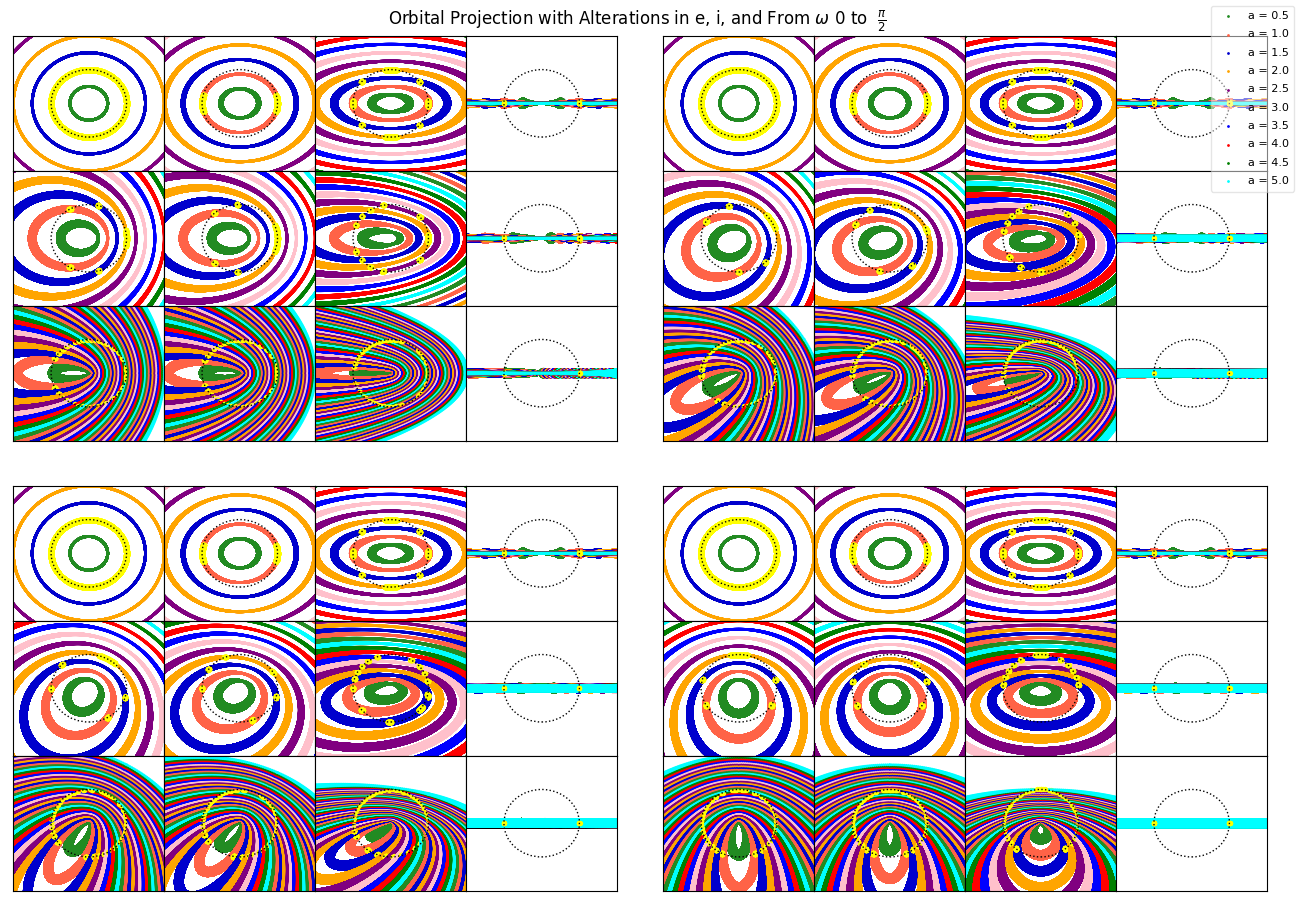
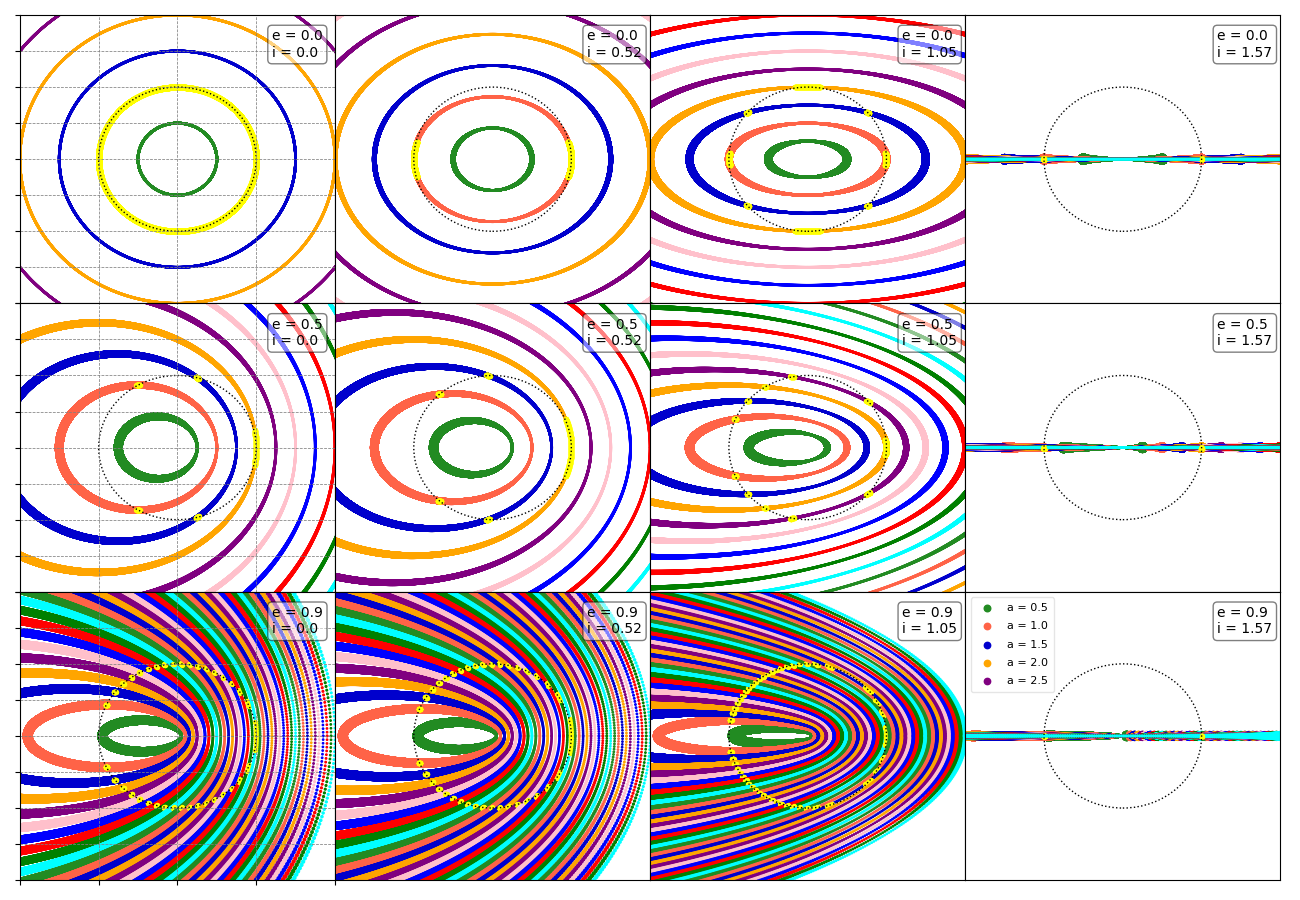
Fixed UnityPlotHist's normalizations, Able to get legends to work for MultiHist and MultiProj, made figures for omega = 0

diff --git a/Sep_plot.py b/Sep_plot.py
@@ -259,24 +259,6 @@ class Sep_plot(Sep_gen):
                 
             # Creates the grid for each plot
             ax.grid(True,color = "grey", linestyle="--", linewidth="0.55", axis = "both", which = "both")
-
-            textstr = "\n".join((f'e = {param[0]}', f'i = {round(param[1],2)}'))
-            ax.text(0.80, 0.95, textstr, transform = ax.transAxes, fontsize = 10, verticalalignment = "top", bbox = rect)
-                
-            if j < 8 or j >= 9:
-                ax.set_yticks([])
-                ax.set_xticks([])
-                ax.tick_params(axis = "x", labelbottom = True)
-            elif j == 11:
-                # handles = [patches.Rectangle((0,0),1,1,color = c, ec = "w") for c in colorlist]
-                # if which == "Linear":
-                #     labels = ["Linear"]
-                # else:
-                #     labels = ["Linear", "Log", r"Power Law: $\alpha = 2$"]
-                
-                final_ax = axs.flatten()[-1]
-                handles, labels = final_ax.get_legend_handles_labels()
-                final_ax.legend(handles[0:5],labels[0:5],fontsize="small", transform = ax.get_xaxis_transform(), prop = {"size":8}, borderpad = 0.5, labelspacing = 0.75, handlelength = 2, framealpha = 0.5)
                 
             # Plots an Einstein Ring Radius of 1 around each plot
             Circ2 = patches.Circle((0,0), 1, ec="k", fill=False, linestyle = ":", linewidth = 1)
@@ -291,36 +273,27 @@ class Sep_plot(Sep_gen):
             # Limits
             ax.set_xlim(-2,2)
             ax.set_ylim(-2,2)
-            
-            
-            # if outer == 2:
-                # ax.text(-18,7.95,"e=0")
-                # ax.text(-18,3.95,"e=0.5")
-                # ax.text(-18,-0.1,"e=0.9")
-                # ax.text(-18,10.25,"i=0")
-                # ax.text(-8.25,10.25,r"i=$\frac{\pi}{6}$")
-                # ax.text(-4.25,10.25,r"i=$\frac{\pi}{3}$")
-                # ax.text(0,10.25,r"i=$\frac{\pi}{2}$")
-            # else:
-            ax.set_xticks([])
-            ax.set_yticks([])
                 
+            textstr = "\n".join((f'e = {param[0]}', f'i = {round(param[1],2)}'))
+            ax.text(0.80, 0.95, textstr, transform = ax.transAxes, fontsize = 10, verticalalignment = "top", bbox = rect)
+                
+            if j % 4 == 0:
+                ax.tick_params(axis = "both", labelbottom = False, labelleft = False)
+            elif j < 8 or j >= 9:
+                # ax.set_yticks([])
+                # ax.set_xticks([])
+                ax.tick_params(axis = "both", labelbottom = False, labelleft = False)
+            if j == 11:
+                handles, labels = ax.get_legend_handles_labels()
+                ax.legend(handles[0:9],labels[0:9], loc = "upper left", fontsize = "x-small",prop = {"size":8}, borderpad = 0.5, labelspacing = 0.75, handlelength = 2, framealpha = 0.5)
         
         # Shows the legend of each data point
         # fig.legend(handles[0:5],labels[0:5],fontsize="small", prop = {"size":8}, borderpad = 0.5, labelspacing = 0.75, handlelength = 2, framealpha = 0.5)
         # fig.tight_layout(pad=0.05, rect = (0.02, 0.02, 0.95, 0.95))
         fig.tight_layout()
-        # Shows where the data values change according to the plot 
-        # subfig.text(-15.75,7.95,"e=0")
-        # subfig.text(-15.75,3.95,"e=0.5")
-        # subfig.text(-15.75,-0.1,"e=0.9")
-        # subfig.text(-12.25,10.25,"i=0")
-        # subfig.text(-8.25,10.25,"i=30")
-        # subfig.text(-4.25,10.25,"i=60")
-        # subfig.text(0,10.25,"i=90")
         
         # Saves to Figure Folder
-        plt.savefig(f"/College Projects/Microlensing Separation/Figures/Multi_a05_{end}_omegas.png")
+        plt.savefig(f"/College Projects/Microlensing Separation/Figures/Multi_a05_{end}_omega_0.png")
         # plt.savefig(f"C:/Users/victo/College Projects/Microlensing Separation/Figures/Multi_a05_{end}_omega_0.png")
         # plt.show()
         
@@ -335,9 +308,9 @@ class Sep_plot(Sep_gen):
         # totlinsemilist = [[] for _ in range(12)]
         
         if which == "Linear":
-            colorlist = ["black"]
+            colorlist = ["black", "green"]
         else:
-            colorlist = ["black", "red", "blue"]
+            colorlist = ["black", "red", "blue", "green"]
         
         # Data
         rlist, param = self.DataHist(w = w, step = step, end = end, which = which) 
@@ -431,32 +404,28 @@ class Sep_plot(Sep_gen):
             # ax.text(3e0, 7.5, f"$i = {round(iterparam[1],2)}$")
             ax.grid(True,color = "grey", linestyle="--", linewidth="0.25", axis = "x", which = "both")
             ax.vlines(1/(1-iterparam[0]), 0, 1, transform = ax.get_xaxis_transform(), colors = 'green', alpha = 0.75, label = "Peak Eccentricity")
-            if j < 8 or j >= 9:
+            if j % 4 == 0:
+                ax.tick_params(axis = "both", labelbottom = False, labelleft = False)
+            elif j < 8 or j >= 9:
                 ax.set_yticks([])
                 ax.set_xticks([])
                 ax.tick_params(axis = "x", labelbottom = False)
-            elif j == 11:
-                # handles = [patches.Rectangle((0,0),1,1,color = c, ec = "w") for c in colorlist]
-                # if which == "Linear":
-                #     labels = ["Linear"]
-                # else:
-                #     labels = ["Linear", "Log", r"Power Law: $\alpha = 2$"]
-                
-                
-                final_ax = axs.flatten()[-1]
-                handles, labels = final_ax.get_legend_handles_labels()
-                final_ax.legend(handles, labels, transform = ax.get_xaxis_tranform(), loc = "best")
             
-        # handles = [patches.Rectangle((0,0),1,1,color = c, ec = "w") for c in colorlist]
-        # if which == "Linear":
-        #     labels = ["Linear"]
-        # else:
-        #     labels = ["Linear", "Log", r"Power Law: $\alpha = 2$"]
+            if j == 11:
+                handles = [patches.Rectangle((0,0),1,1,color = c, ec = "w") for c in colorlist]
+                if which == "Linear":
+                    labels = ["Linear", "Peak Eccentricity"]
+                else:
+                    labels = ["Linear", "Log", r"Power Law: $\alpha = 2$", "Peak Eccentricity"]
+                    
+                ax.legend(handles = handles, labels = labels, loc = "best", fontsize = "small")
+                
         # fig.tight_layout(pad=1.25,h_pad=0, w_pad=0, rect = (0.08, 0.0, 0.95, 0.95))
+        fig.tight_layout()
         if which == "Linear":
-            plt.savefig(f'/College Projects/Microlensing Separation/Figures/MultiHist_0_0002_{which}.png')
+            plt.savefig(f'/College Projects/Microlensing Separation/Figures/MultiHist_omega_0_0002_{which}.png')
         else:
-            plt.savefig(f'/College Projects/Microlensing Separation/Figures/MultiHist_0_0002_{which}.png')
+            plt.savefig(f'/College Projects/Microlensing Separation/Figures/MultiHist_omega_0_0002_{which}.png')
         # plt.show()
         return rlist
 
@@ -748,7 +717,7 @@ class Sep_plot(Sep_gen):
         
         # FIGURE FOR SEMIMAJOR AXIS
         fig, ax = plt.subplots(figsize = (9,9), sharex=True,sharey=True,gridspec_kw=dict(hspace=0,wspace=0))
-        fig.suptitle("Detections of $R_E$ with marginalizations for e = 0.0-0.9, "r"$\cos{i} = 0$ to 1 , and " r"$\omega$ = $0$ to $\frac{\pi}{2}$" f"\n ({which})")        
+        # fig.suptitle("Detections of $R_E$ with marginalizations for e = 0.0-0.9, "r"$\cos{i} = 0$ to 1 , and " r"$\omega$ = $0$ to $\frac{\pi}{2}$" f"\n ({which})")        
         # Combine Histogram Calculations
         for i in range(len(totlist)):
             histlist = totlist[i]
@@ -767,13 +736,16 @@ class Sep_plot(Sep_gen):
                         totgammahist = totgammahist + gammahist
                     elif val == len(histlist)-1 and i == len(totlist)-1:
                         tothist = tothist + hist
-                        norm = np.abs(1 / (np.sum(bins)*logbinsize))
+                        totgammahist = totgammahist + gammahist
+                        norm = np.abs(1 / (np.sum(tothist)*logbinsize))
+                        ecircnorm = np.abs(1 / (np.sum(ecirchist) * logbinsize))
+                        gammanorm_final = np.abs(1/ (np.sum(totgammahist) * logbinsize))
                         total = np.sum(tothist)
                         print(total)
-                        StepPatch = ax.stairs(tothist, bins, edgecolor = colorlist[0], fill = False, label = "Uniform Dist.") # Uniform Dist
+                        StepPatch = ax.stairs(tothist * norm, bins, edgecolor = colorlist[0], fill = False, label = "Uniform Dist.") # Uniform Dist
                         # May or may not need norm for gamma
-                        StepPatch = ax.stairs(totgammahist, bins, edgecolor = colorlist[1], fill = False, label = "Gamma Dist.") # Gamma Dist
-                        StepPatch = ax.stairs(ecirchist, bins, edgecolor = colorlist[2], fill = False, label = "Circular Dist.") # Circular Dist
+                        StepPatch = ax.stairs(totgammahist * gammanorm_final, bins, edgecolor = colorlist[1], fill = False, label = "Gamma Dist.") # Gamma Dist
+                        StepPatch = ax.stairs(ecirchist * ecircnorm, bins, edgecolor = colorlist[2], fill = False, label = "Circular Dist.") # Circular Dist
                     else:
                         tothist = tothist + hist
                         totgammahist = totgammahist + gammahist
@@ -786,6 +758,7 @@ class Sep_plot(Sep_gen):
         handles = [patches.Rectangle((0,0),1,1,color = c, ec = "w") for c in colorlist]    
         
         fig.legend(handles, labels)
+        fig.tight_layout()
         # try:
         #     #### os.getcwd IS FOR DESKTOP, IF FOR UNITY, CHANGE TO os.get_cwd
         #     if not unity:
@@ -799,8 +772,8 @@ class Sep_plot(Sep_gen):
         #     print("Did not save figure, something must be wrong....")
         #     print(os.getcwd())
         
-        # plt.savefig(f'/College Projects/Microlensing Separation/Figures/UnityHist_eccent_incline_{self.numestep}_0002_{which}.png')
-        plt.savefig(f"C:/Users/victo/College Projects/Microlensing Separation/Figures/UnityHist_eccent_incline_{self.numestep}_0002_{which}.png")
+        plt.savefig(f'/College Projects/Microlensing Separation/Figures/UnityHist_eccent_incline_{self.numestep}_0002_{which}_norm.png')
+        # plt.savefig(f"C:/Users/victo/College Projects/Microlensing Separation/Figures/UnityHist_eccent_incline_{self.numestep}_0002_{which}.png")
         return tothist
 
 
@@ -830,12 +803,12 @@ if __name__ == "__main__":
     which = "Linear"
     unity = "False"
     tothist = Sep_plot(numestep=numestep, numdiv=numdiv)
-    # rlist = tothist.MultiPlotProj(w = 0, start = 0.5, end = 20, step = 0.5)
+    rlist = tothist.MultiPlotProj(w = 0, start = 0.5, end = 20, step = 0.5)
     # rtemp = tothist.MultiPlotHist(w = 0, step = 0.002, end = 20, which = which)
     
     #step, end, inclination, which, estep_outer, inum, wnum
     # clist = tothist.CompletePlotHist([0.002, 20, True,"Linear", [], 75, 75])
-    tothist.UnityPlotHist(which = which, wnum = wnum, inum = inum, unity = unity)
+    # tothist.UnityPlotHist(which = which, wnum = wnum, inum = inum, unity = unity)
     
     
 
